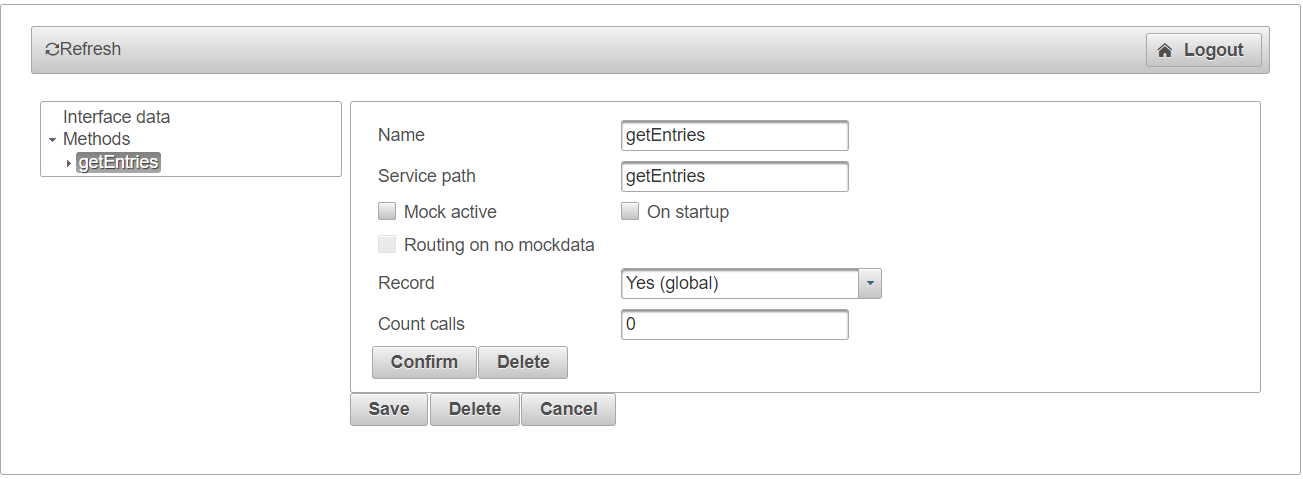
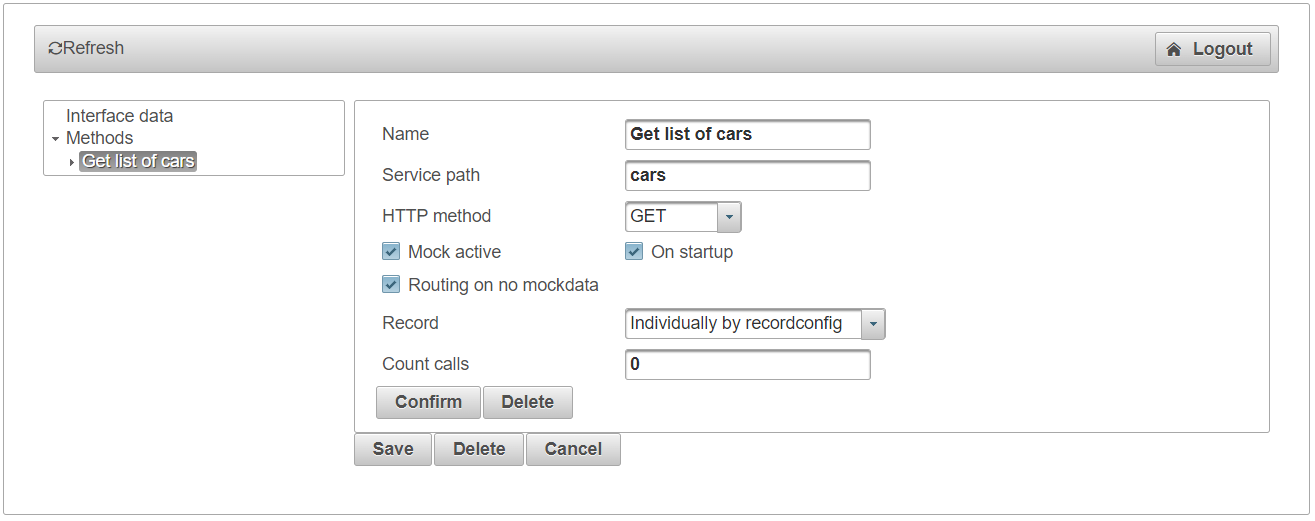
readme

diff --git a/README.md b/README.md
@@ -28,12 +28,12 @@
 <ul>
 <li>Mock all kind of interfaces
 	<ul>
+		<li>REST</li>
 		<li>SOAP</li>
-		<li>REST*</li>
 		<li>CUSTOM (XML / JSON / OTHER)
 			<ul>
 				<li>(Requires some implementation in calling software)</li>
-				<ul><li>Predefined abstract class - see class AbstractCustomMockImpl (javadoc)</li></ul>
+				<ul><li>Predefined abstract class - see class <a href="https://github.com/joergdev/MoSy-API-client/blob/master/src/main/java/de/joergdev/mosy/api/client/AbstractCustomMockImpl.java">AbstractCustomMockImpl</a> (javadoc)</li></ul>
 				<li>Examples: MQ-Interfaces, RMI-Interfaces, Native-Interfaces, &hellip;</li>
 			</ul>
 		</li>
@@ -77,8 +77,6 @@
 
 </ul>
 
-<br/><br/>
-<p><em>REST* = Mock and record for REST Interfaces ist not yet supported</em>.</p>
 <br/><br/><br/><br/><br/><br/>
 
 <a name="a2"/>
@@ -161,6 +159,8 @@
 
 <a name="a5"/>
 <p><strong><u>Interface &ndash; Interface data</u></strong></p>
+<p><em>REST</em></p>
+<img src="doc/ifc_data_rest.png" />
 <p><em>SOAP</em></p>
 <img src="doc/ifc_data_soap.png" />
 <p><em>CUSTOM</em></p>
@@ -169,12 +169,13 @@
 <li>Name</li>
 <li>Type
 <ul>
-<li>SOAP / REST* / CUSTOM_XML / CUSTOM_JSON / CUSTOM_PLAIN</li>
+<li>REST / SOAP / CUSTOM_XML / CUSTOM_JSON / CUSTOM_PLAIN</li>
 </ul>
 </li>
 <li>Service path
 <ul>
-<li>SOAP: TODO DESC</li>
+<li>REST: HTTP (base)path</li>
+<li>SOAP: Service endpoint (in most cases equal to service name)</li>
 <li>CUSTOM(XML/JSON/PLAIN): NOT visible</li>
 </ul>
 </li>
@@ -240,8 +241,14 @@
 <li>Name</li>
 <li>Service path
 <ul>
-<li>SOAP: TODO DESC</li>
+<li>REST: HTTP (sub)path, may be empty</li>
+<li>SOAP: Root XML tag name, may not be empty</li>
 <li>CUSTOM(XML/JSON/PLAIN): NOT visible</li>
+</ul>
+</li>
+<li>HTTP method
+<ul>
+<li>Only visible for REST Services</li>
 </ul>
 </li>
 <li>Mock active
